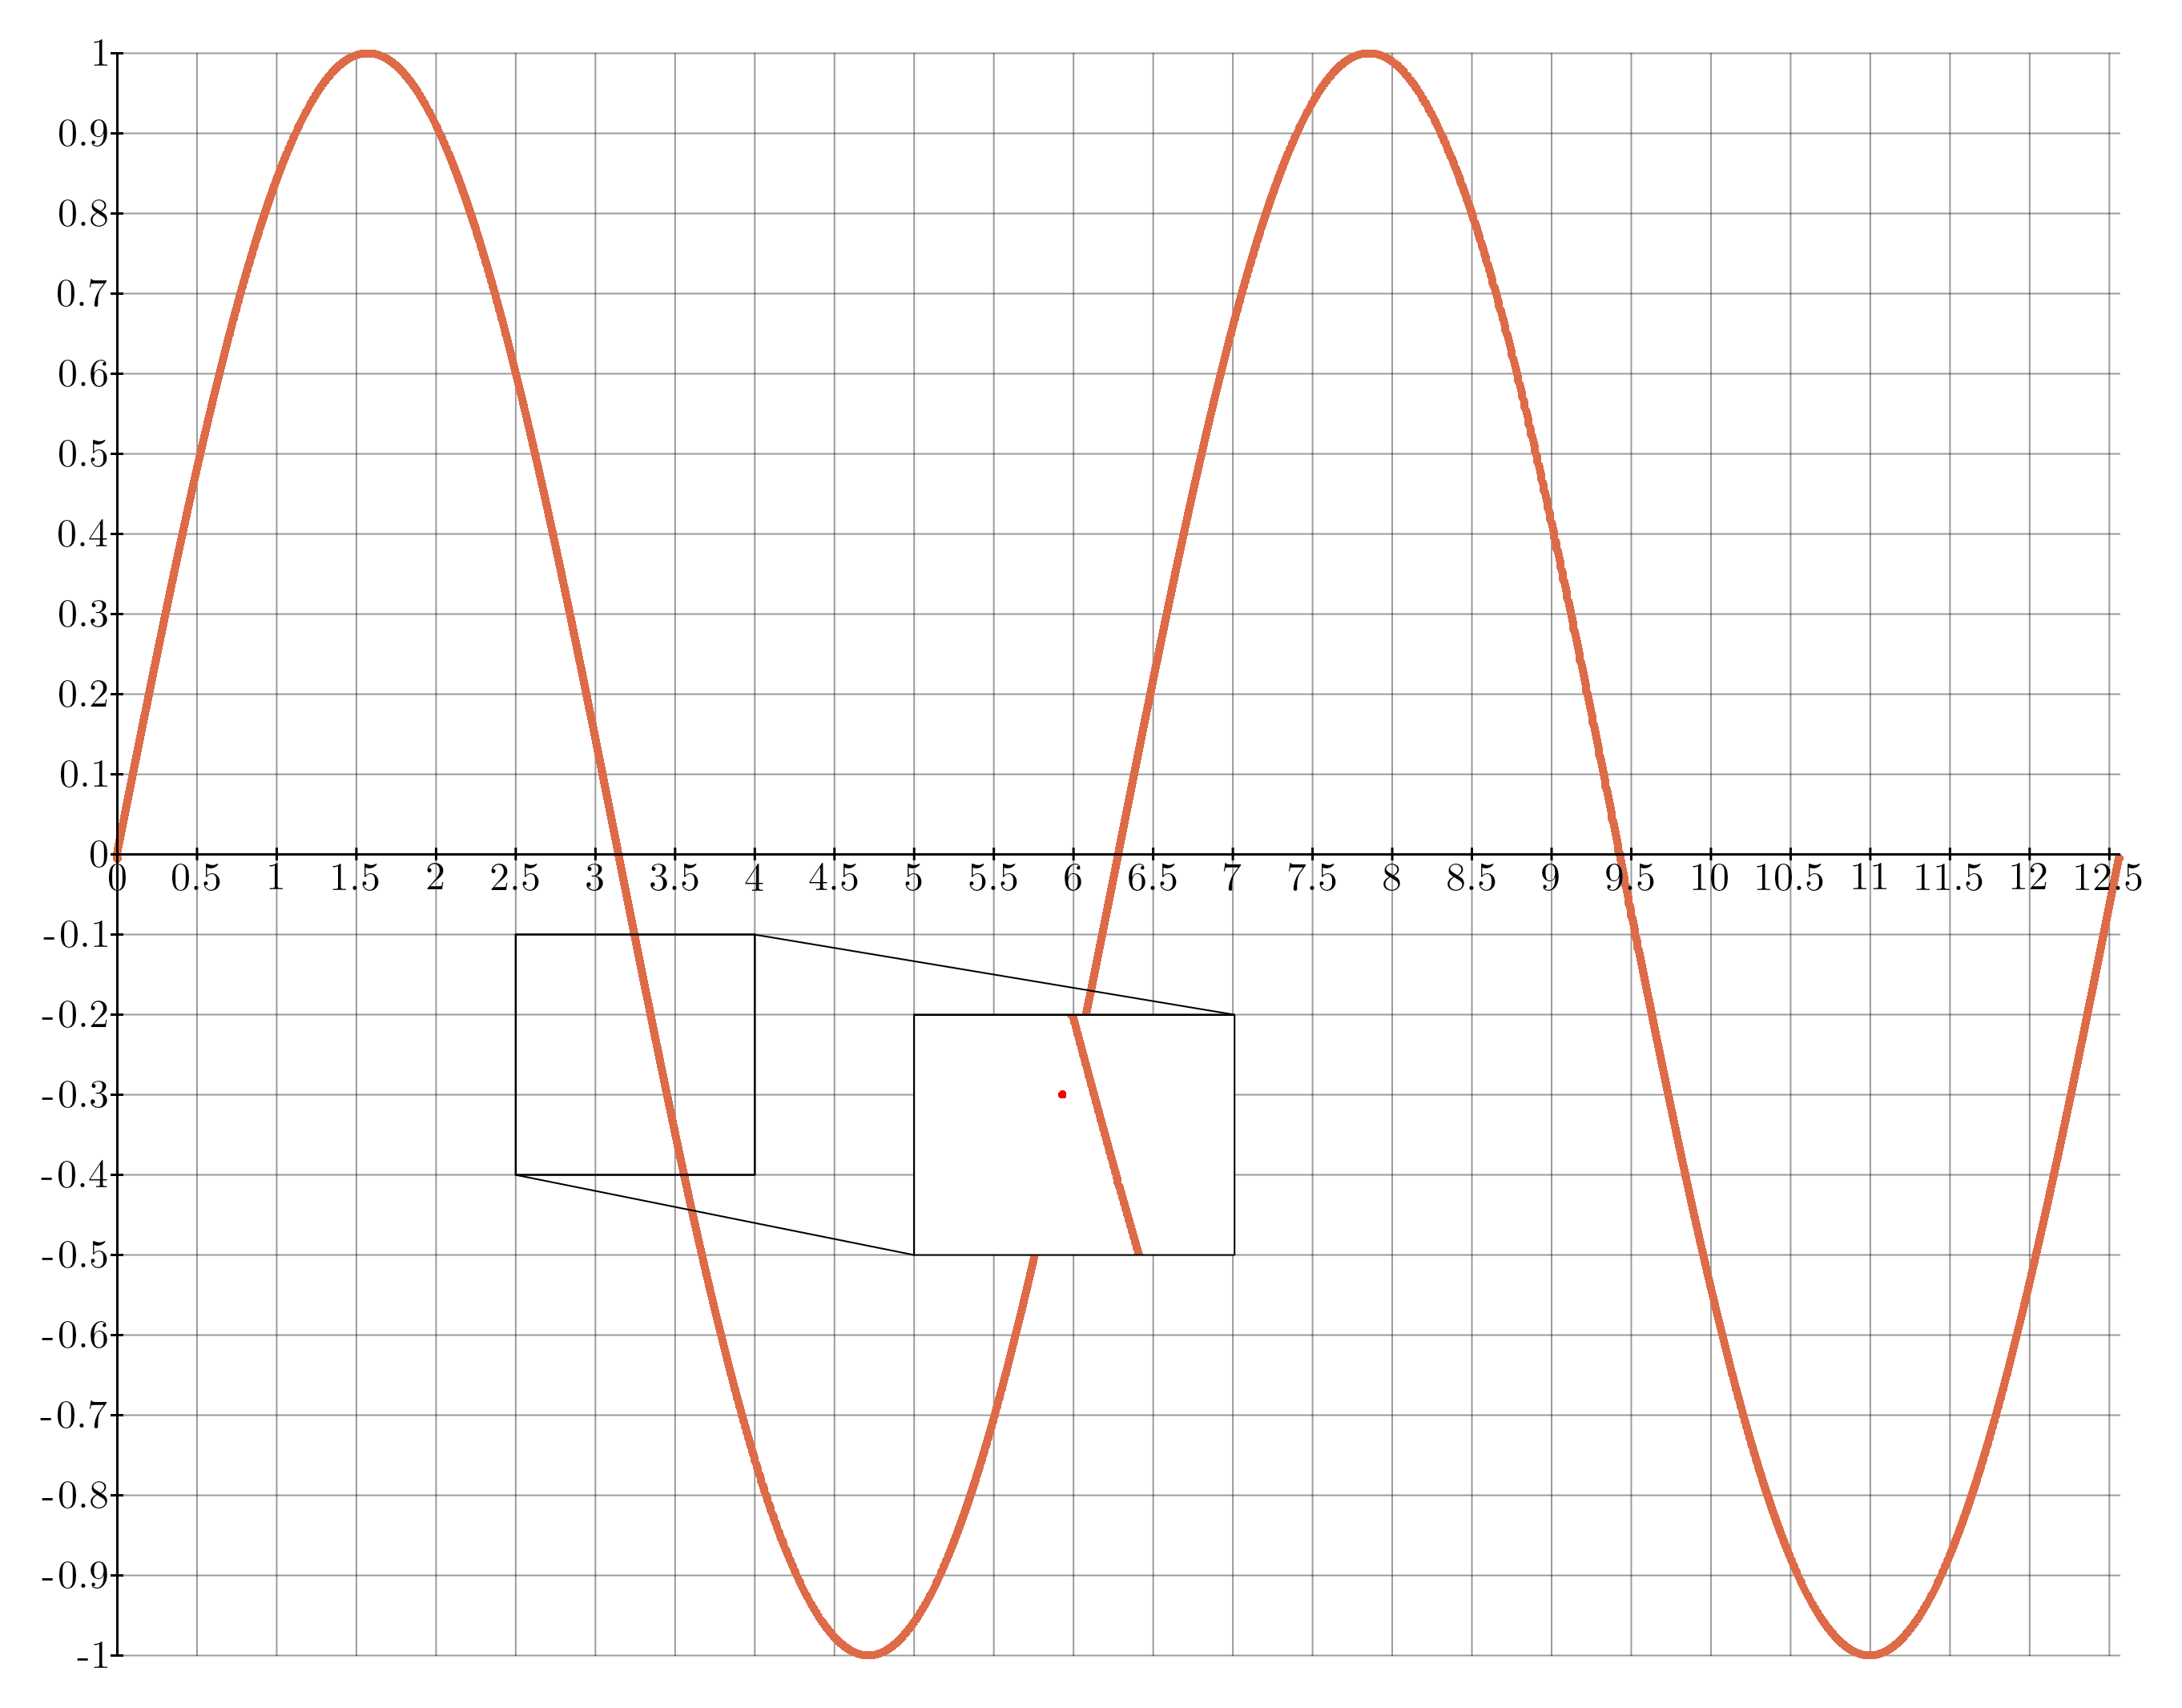
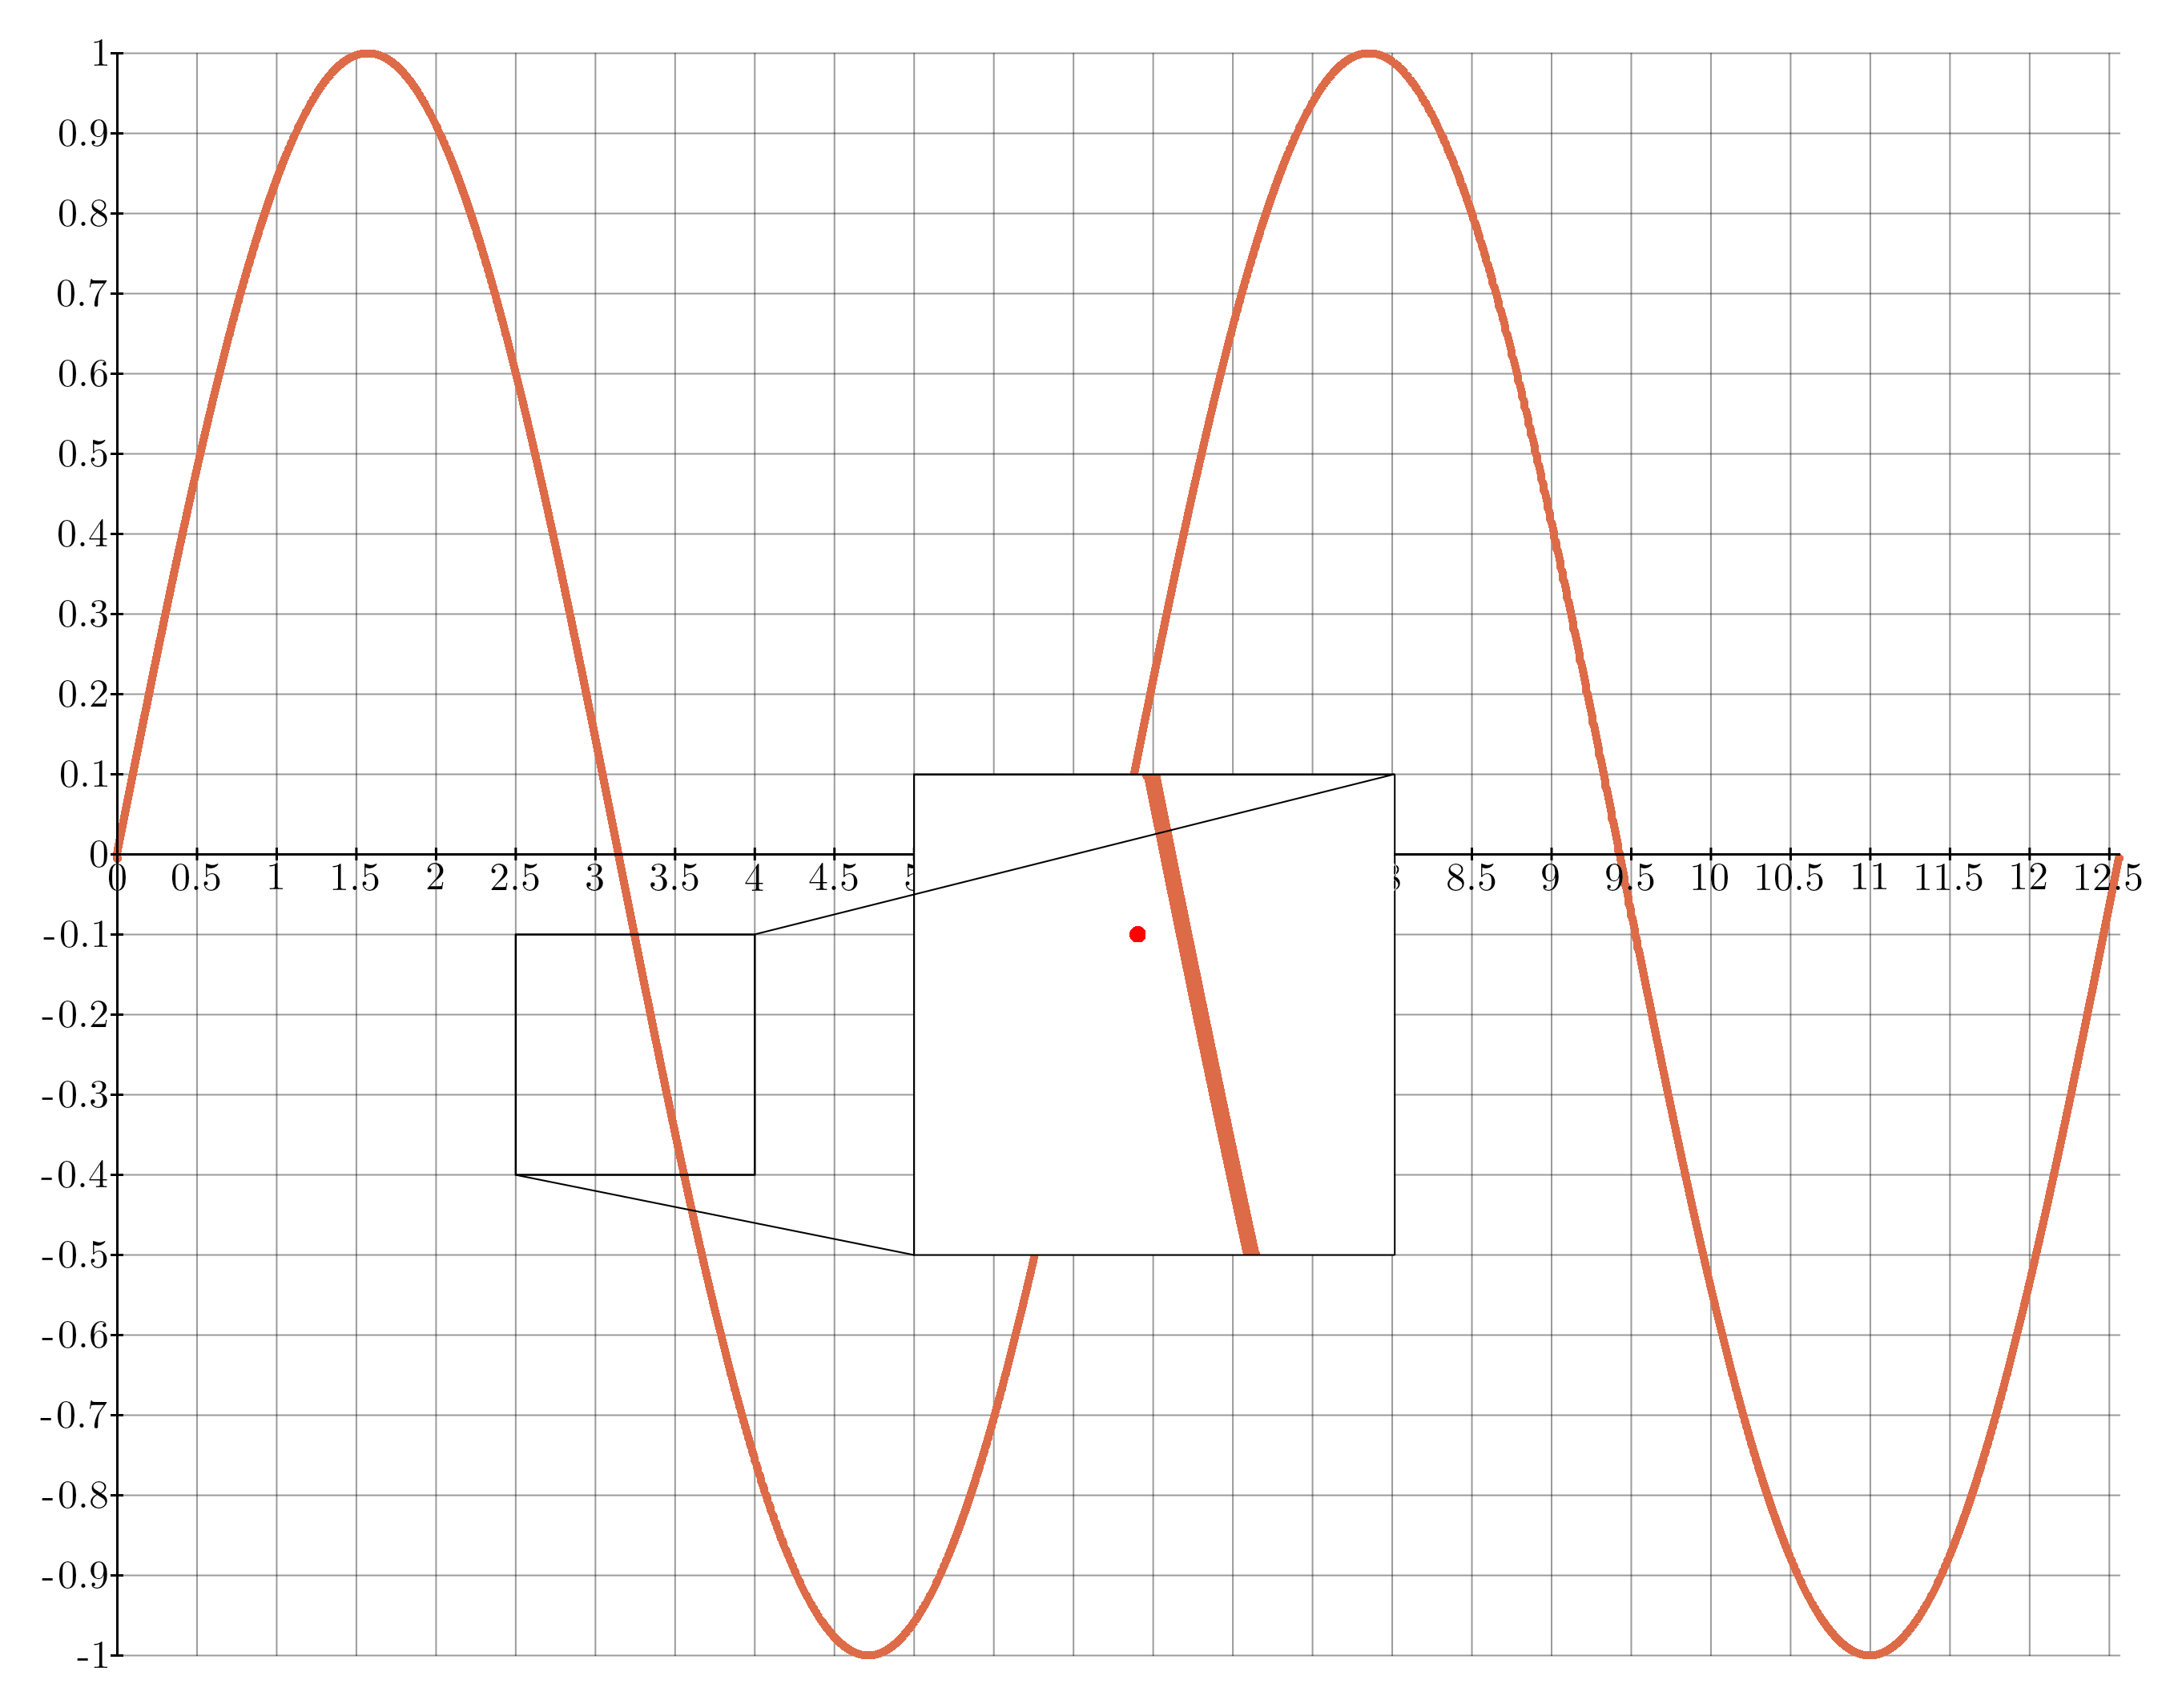
Implement visual scaling for plot elements in zoomed views
- Added `getVisualScale` method in the `Window` class to retrieve the scale factor for visual elements.
- Updated various classes (`Arrow`, `Bubble`, `Equation`, `Function2D`, `ParametricEquation`, `Points2D`) to utilize the new scaling method for line widths and sizes, ensuring consistent appearance in zoomed plots.
- Enhanced `Plot` class to calculate and set the `renderScale` for zoom insets based on pixel density.
- Added tests for zoom inset scaling to verify correct visual representation of elements.

Changed region(s): [[0.4057, 0.4334, 0.6553, 0.743], [0.4681, 0.5882, 0.4993, 0.6191]]

diff --git a/tests/cases/test_zoom_scaling.py b/tests/cases/test_zoom_scaling.py
@@ -1,0 +1,44 @@
+"""
+Test zoom inset scaling: points and function line width should scale up in the magnified view.
+Also verifies zoom inset has no legend (legend only on main plot).
+"""
+
+import sys
+from pathlib import Path
+sys.path.insert(0, str(Path(__file__).resolve().parent.parent))
+
+import kaxe
+import numpy as np
+from runner import smoke, sanity, judge
+
+
+@smoke()
+@sanity()
+@judge(
+    elements=[
+        "zoom inset with magnified sine curve",
+        "main plot with sine curve",
+        "main plot has legend",
+        "zoom inset has NO legend",
+    ],
+    focus="Zoom inset shows scaled-up content (thicker lines, larger points) and has no duplicate legend.",
+    strict_elements=False,
+)
+def test_zoom_inset_scaling():
+    """
+    Zoom inset with includeMain: function and points should be visually scaled up.
+    Legend appears only on main plot, not in inset.
+    """
+    plot = kaxe.Plot([0, 4 * np.pi, -1, 1])
+    plot.add(kaxe.Function2D(lambda x: np.sin(x), width=10).legend(r"$\theta$"))
+    plot.add(kaxe.Points2D([3.2], [-0.2], symbol=kaxe.symbol.CIRCLE, color=(255, 0, 0, 255)))
+
+    zoom = plot.zoom(2.5, 4, -0.4, -0.1, position=(5, -0.5), includeMain=True)
+    zoom.add(
+        kaxe.Points2D(
+            [3.5], [-0.25],
+            symbol=kaxe.symbol.CROSS,
+            color=(0, 128, 0, 255),
+        )
+    )
+    return plot

diff --git a/tests/cases/test_boxplot.py b/tests/cases/test_boxplot.py
@@ -1,0 +1,36 @@
+"""
+Test boxplot, including correct whisker calculation (Tukey convention).
+"""
+
+import sys
+from pathlib import Path
+sys.path.insert(0, str(Path(__file__).resolve().parent.parent))
+
+import kaxe
+import numpy as np
+from runner import smoke, sanity
+
+
+@smoke()
+@sanity()
+def test_boxplot_basic():
+    """Boxplot renders without error."""
+    chart = kaxe.BoxPlot()
+    chart.add([1, 2, 3, 4, 5, 6, 7, 8, 9, 10])
+    chart.add([4, 1, 6, 1, 6.3, 1, 6.2, 7, 9.1])
+    chart.legends("dataset 1", "dataset 2")
+    return chart
+
+
+@smoke()
+@sanity()
+def test_boxplot_whiskers():
+    """
+    Boxplot with clear outlier: whiskers extend to min/max within fence, not fence boundaries.
+    Data [1..10, 100]: Q1=3.5, Q3=8.5, IQR=5, fence=[-4, 16].
+    Whiskers should be at 1 and 10 (data min/max within fence), 100 is outlier.
+    """
+    chart = kaxe.BoxPlot()
+    chart.add([1, 2, 3, 4, 5, 6, 7, 8, 9, 10, 100])
+    chart.legends("with outlier")
+    return chart

diff --git a/src/kaxe/plot/standard.py b/src/kaxe/plot/standard.py
@@ -151,11 +151,26 @@ class Plot(Window):
     def __bakeZoomInset__(self, zoom):
         """Bake zoom plot and return rendered surface. Finalizes main objects with zoom view when includeMain."""
         from .empty import EmptyWindow, EmptyPlot
+        import math
 
         inset_w, inset_h = zoom.size
         x0, x1, y0, y1 = zoom.windowAxis
+        zoom_x_range = x1 - x0
+        zoom_y_range = y1 - y0
+        main_x_range = self.windowAxis[1] - self.windowAxis[0]
+        main_y_range = self.windowAxis[3] - self.windowAxis[2]
+
+        # Magnification: zoom has more pixels per data unit → scale up points/lines
+        zoom_ppu_x = inset_w / zoom_x_range if zoom_x_range else 1
+        zoom_ppu_y = inset_h / zoom_y_range if zoom_y_range else 1
+        main_ppu_x = self.width / main_x_range if main_x_range else 1
+        main_ppu_y = self.height / main_y_range if main_y_range else 1
+        scale_x = zoom_ppu_x / main_ppu_x
+        scale_y = zoom_ppu_y / main_ppu_y
+        zoom_plot_render_scale = math.sqrt(scale_x * scale_y)
 
         zoom_plot = EmptyPlot(zoom.windowAxis) if zoom.showAxes else EmptyWindow(zoom.windowAxis)
+        zoom_plot.renderScale = max(1.0, zoom_plot_render_scale)
         zoom_plot.showProgressBar = False
         zoom_plot.printDebugInfo = False
         zoom_plot.showLegend = False

diff --git a/src/kaxe/objects/d2/point.py b/src/kaxe/objects/d2/point.py
@@ -77,6 +77,8 @@ class Points2D:
         
         # set style 
         if self.size is None: self.size = round(parent.getAttr('fontSize') / 3)
+        scale = parent.getVisualScale()
+        size = max(1, round(self.size * scale))
 
         for i, (x,y) in enumerate(zip(self.x,self.y)):
             x,y = parent.pixel(x, y)
@@ -87,8 +89,8 @@ class Points2D:
             # symbol
             if self.symbol:
                 
-                #shapes.Circle(x,y, self.size, color=self.color, batch=self.batch)
-                symbol = makeSymbolShapes(self.symbol, self.size, self.color, batch=self.batch)
+                #shapes.Circle(x,y, size, color=self.color, batch=self.batch)
+                symbol = makeSymbolShapes(self.symbol, size, self.color, batch=self.batch)
                 symbol.x = x
                 symbol.y = y
                 if hasattr(symbol, 'centerAlign'): symbol.centerAlign()
@@ -100,7 +102,7 @@ class Points2D:
             # lollipop (lagt til lines)
             if self.lollipop:
                 _, y0 = parent.pixel(x, min(max(0, parent.windowAxis[2]), parent.windowAxis[3]))
-                line = shapes.Line(x, y, x, y0, color=self.color, width=int(self.size*.5), batch=self.batch, center=True)
+                line = shapes.Line(x, y, x, y0, color=self.color, width=max(1, int(size*.5)), batch=self.batch, center=True)
                 self.lines.append(line)
 
             # connect
@@ -111,13 +113,13 @@ class Points2D:
             if x1 is None or y1 is None or x is None or y is None:
                 continue
             
-            if (vlen(vdiff((x1, y1), (x,y))) < self.size) and self.symbol:
+            if (vlen(vdiff((x1, y1), (x,y))) < size) and self.symbol:
                 continue
 
             if not parent.inside(x1, y1):
                 continue
 
-            line = shapes.Line(x,y, x1, y1, color=self.color, width=int(self.size*.5), batch=self.batch, center=True)
+            line = shapes.Line(x,y, x1, y1, color=self.color, width=max(1, int(size*.5)), batch=self.batch, center=True)
             self.lines.append(line)
         
     

diff --git a/src/kaxe/objects/d2/arrow.py b/src/kaxe/objects/d2/arrow.py
@@ -63,7 +63,7 @@ class Arrow:
 
 
     def finalize2D(self, parent):
-        
+        scale = getattr(parent, 'getVisualScale', lambda: 1.0)()
         pixel0 = parent.pixel(*self.p0)
         pixel1 = parent.pixel(*self.p1)
     
@@ -72,8 +72,9 @@ class Arrow:
 
         n = (-v[1], v[0])
 
-        arrowSize = self.headSize * 0.75
-        arrowDownHeight = self.headSize
+        headSize = self.headSize * scale
+        arrowSize = headSize * 0.75
+        arrowDownHeight = headSize
 
         p1 = (pixel1[0] - 2 * arrowSize * v[0], pixel1[1] - 2 * arrowSize * v[1])
         p2 = (pixel1[0] + arrowSize * n[0] + arrowDownHeight * v[0], pixel1[1] + arrowSize * n[1] + arrowDownHeight * v[1])
@@ -94,7 +95,8 @@ class Arrow:
             batch=self.batch,
         )
 
-        shapes.Line(*pixel0, *pixel1, width=self.lineThickness, color=self.color, batch=self.batch)
+        lineWidth = max(1, int(self.lineThickness * scale))
+        shapes.Line(*pixel0, *pixel1, width=lineWidth, color=self.color, batch=self.batch)
 
 
     def __getOrthogonalVector__(self, v, angle:int):

diff --git a/src/kaxe/objects/d2/bubble.py b/src/kaxe/objects/d2/bubble.py
@@ -66,18 +66,19 @@ class Bubble:
 
     
     def finalize(self, parent):
-        
+        scale = getattr(parent, 'getVisualScale', lambda: 1.0)()
         centerpos = parent.pixel(*self.centerPos)
 
         text = Text(self.text, *centerpos, self.fontSize)
         size = max(text.width, text.height) / 2
 
-        radius = size+2*self.lineThickness + self.padding
+        lineThickness = max(1, int(self.lineThickness * scale))
+        radius = size+2*lineThickness + self.padding
         centerpos = np.array(centerpos)
         v = np.array(parent.pixel(*self.lineEndPos)) - centerpos
         v = radius * v / np.linalg.norm(v)
 
-        self.line = shapes.Line(*(centerpos + v), *parent.pixel(*self.lineEndPos), color=self.color, batch=self.batch, width=self.lineThickness*2)
+        self.line = shapes.Line(*(centerpos + v), *parent.pixel(*self.lineEndPos), color=self.color, batch=self.batch, width=lineThickness*2)
         self.innerCircle = shapes.Circle(*centerpos, radius, color=self.backgroundColor, batch=self.batch)
         self.outerCircle = shapes.Circle(*centerpos, radius, color=self.outlineColor, fill=False, batch=self.batch)
 

diff --git a/src/kaxe/objects/d2/equation.py b/src/kaxe/objects/d2/equation.py
@@ -133,7 +133,7 @@ class Equation:
                     dpy, 
                     color=self.color, 
                     batch=self.batch,
-                    radius=self.width)
+                    radius=self._effectiveWidth)
                 )
 
             # shapes.Rectangle(px, py, delta, delta, (255,0,0,100), batch=self.batch)
@@ -183,7 +183,7 @@ class Equation:
                     *a,
                     *b,
                     batch=self.batch,
-                    width=self.width*2,
+                    width=self._effectiveWidth*2,
                     color=self.color
                 )
 
@@ -192,6 +192,8 @@ class Equation:
         # Translate to 3D plot
         if parent == identities.XYZPLOT:
             parent = getEquivalent2DPlot(parent)
+        scale = getattr(parent, 'getVisualScale', lambda: 1.0)()
+        self._effectiveWidth = max(1, int(self.width * scale))
         box = parent.windowBox
         box = [
             box[0] - self.computePadding, box[2] + self.computePadding, 

diff --git a/src/kaxe/objects/d2/parameter.py b/src/kaxe/objects/d2/parameter.py
@@ -121,13 +121,14 @@ class ParametricEquation:
             elif len(lineSegments[-1]) > 0: lineSegments.append([])
 
         if parent == identities.XYPLOT:
-                
+            scale = getattr(parent, 'getVisualScale', lambda: 1.0)()
+            width = max(1, int(self.thickness * scale))
             # piece together linesegments
             for ls in lineSegments:
                 shapes.LineSegment(
                     [(i[0], i[1]) for i in ls], 
                     color=self.color, 
-                    width=self.thickness, 
+                    width=width, 
                     batch=self.batch, 
                     dotted=self.dotted > 0,
                     dashed=self.dashed > 0,

diff --git a/src/kaxe/core/window.py b/src/kaxe/core/window.py
@@ -398,6 +398,10 @@ class Window(AttrObject):
         self.__baked__ = True
 
 
+    def getVisualScale(self):
+        """Scale factor for visual elements (points, line widths). 1.0 for normal plots; >1 when zoomed in."""
+        return getattr(self, 'renderScale', 1.0)
+
     def __addOuterContent__(self):
         
         # legend (skip when showLegend is False, e.g. for zoom insets)

diff --git a/src/kaxe/objects/d2/function.py b/src/kaxe/objects/d2/function.py
@@ -176,11 +176,13 @@ class Function2D:
                 self.__setPoint__(angle, parent)
 
         # piece together linesegments
+        scale = getattr(parent, 'getVisualScale', lambda: 1.0)()
+        width = max(1, int(self.thickness * scale))
         for segment in self.lineSegments:
             shapes.LineSegment(
                 segment, 
                 color=self.color, 
-                width=self.thickness, 
+                width=width, 
                 batch=self.batch, 
                 dotted=self.dotted > 0,
                 dashed=self.dashed > 0,

diff --git a/tests/test3.py b/tests/test3.py
@@ -11,7 +11,7 @@ import numpy as np
 plt = kaxe.Plot([0, 4*np.pi, -1, 1])
 plt.add(kaxe.Function2D(lambda x: np.sin(x)))  # main plot only
 
-zoom = plt.zoom(2.5, 4, -0.4, -0.1, position=(5, -0.5))
+zoom = plt.zoom(2.5, 4, -0.4, -0.1, position=(5, -0.5), size=(600, 600))
 zoom.add(kaxe.Points2D([3.2], [-0.2], symbol=kaxe.symbol.CIRCLE, color=(255, 0, 0, 255)))
 
 plt.save('tests/images/zoom_inset.png')